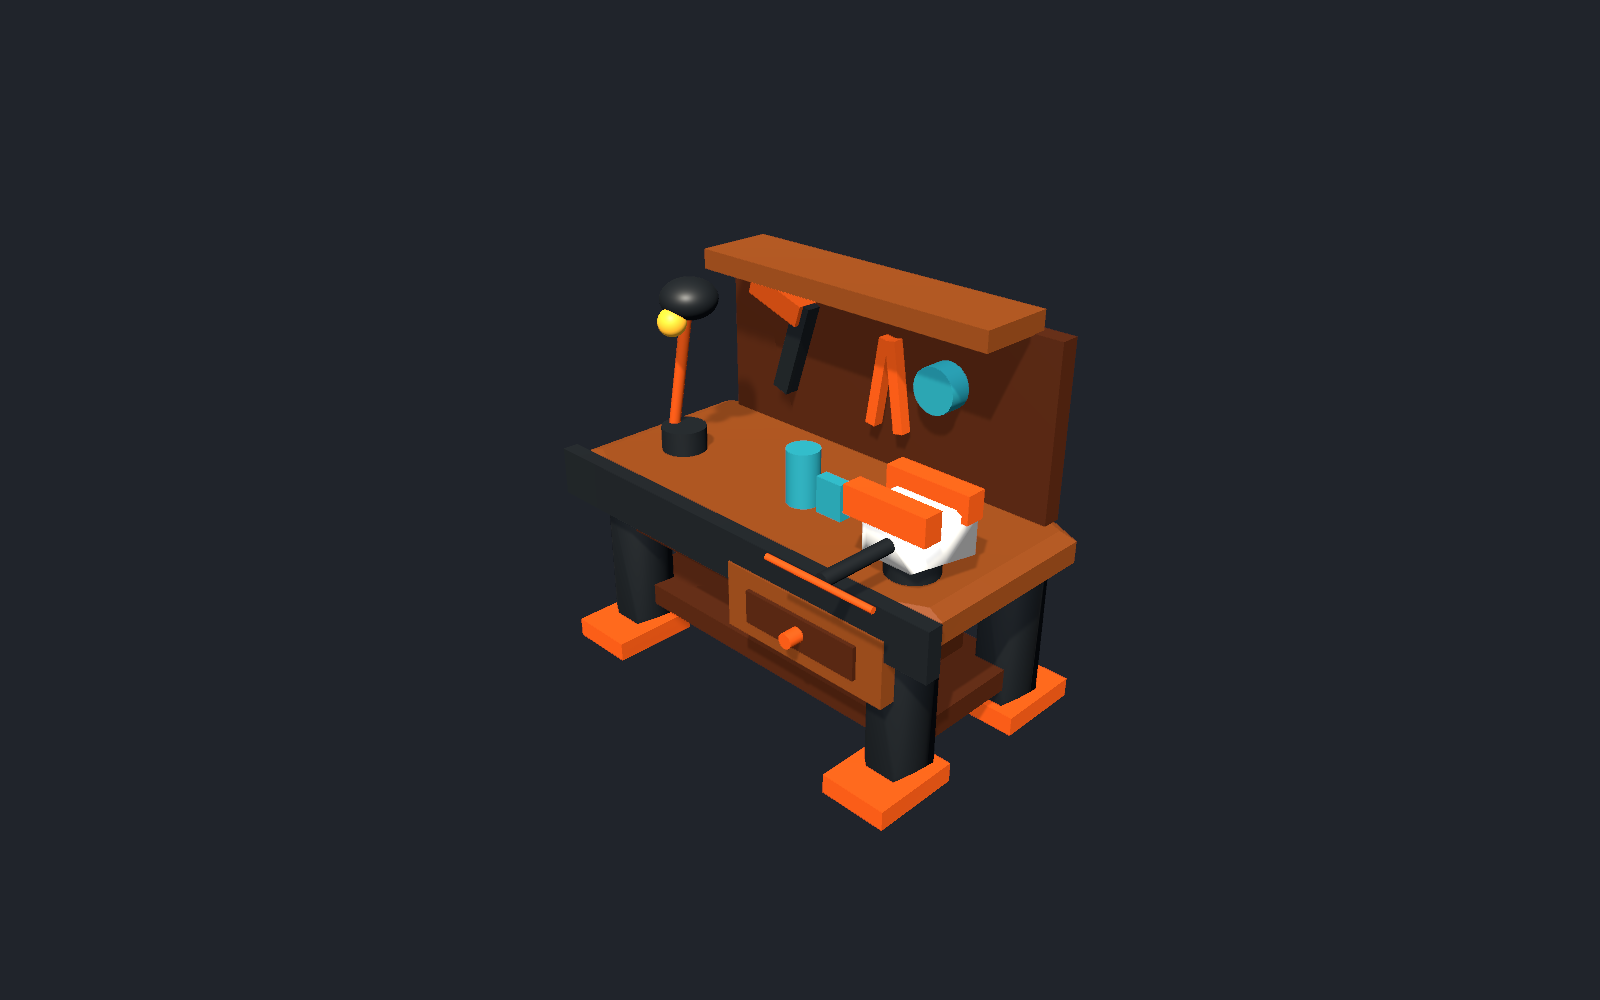
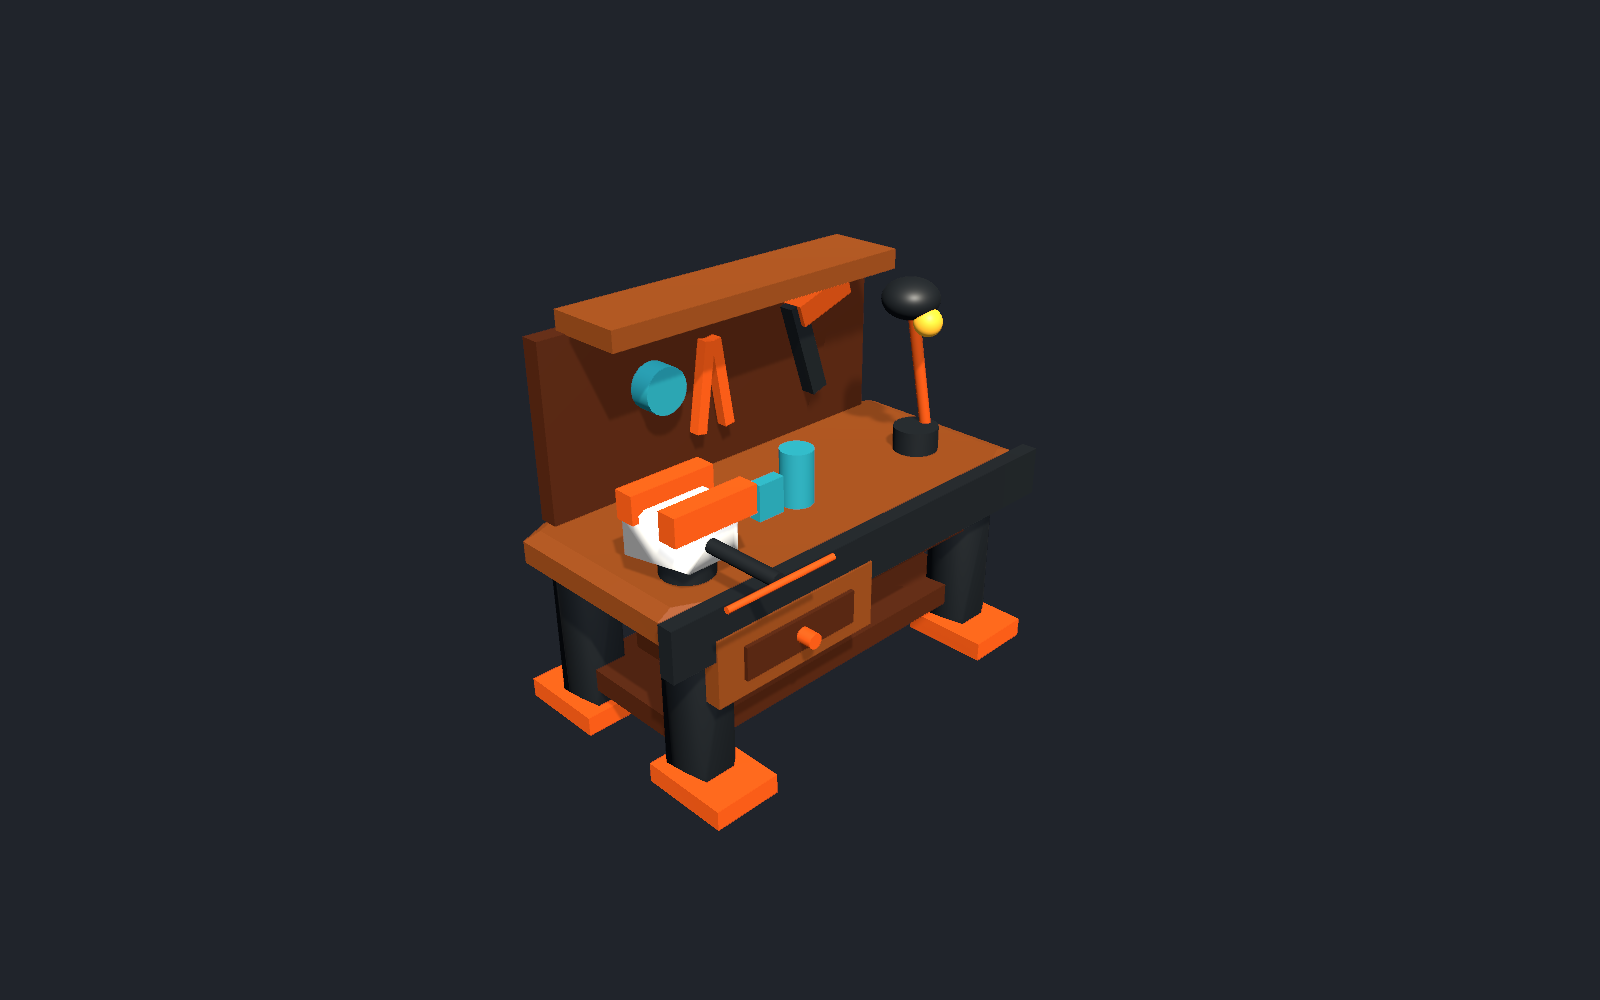
docs: align engine comparison screenshot orientation

Changed region(s): [[0.3125, 0.217, 0.6875, 0.837]]

diff --git a/Samples/three-consumer/README.md b/Samples/three-consumer/README.md
@@ -2,7 +2,7 @@
 
 This Vite application demonstrates the same engine-neutral asset definitions in a Three.js consumer. The Japanese town and inventor workbench are generated from the project's Unity Low Poly preset factories and exported with their matching palettes, so the Unity and Three.js examples start from the same authored data. The town includes six X-axis mirrored instances. The picker also includes a character, weapon, building, profile geometry gallery, and semantic rig fixture.
 
-The screenshots below use a matched 1600 × 1000 frame, 45° field of view, camera direction, and target framing. The Unity images are rendered by the Unity Editor from the same preset factories that produce the JSON and palettes used by the Three.js consumer; each engine uses its own renderer and lighting.
+The screenshots below use a matched 1600 × 1000 frame, 45° field of view, camera direction, and target framing. The Unity images are rendered by the Unity Editor from the same preset factories that produce the JSON and palettes used by the Three.js consumer; each engine uses its own renderer and lighting. Unity images are horizontally corrected after rendering to account for the different camera handedness, without changing the authored model transforms.
 
 | Shared preset | Unity | Three.js |
 |---|---|---|

diff --git a/README.md b/README.md
@@ -53,7 +53,7 @@ npm test
 npm run dev
 ```
 
-The browser sample includes the Unity-authored Japanese Town and Inventor Workbench, along with character, weapon, building, profile geometry, and semantic rig scenes. The town and workbench reuse the exact definitions and palettes from the Unity preset factories, making them a direct cross-engine comparison. Use **Fit view** and **Save PNG** to frame and export a scene.
+The browser sample includes the Unity-authored Japanese Town and Inventor Workbench, along with character, weapon, building, profile geometry, and semantic rig scenes. The town and workbench reuse the exact definitions and palettes from the Unity preset factories, making them a direct cross-engine comparison. Use **Fit view** and **Save PNG** to frame and export a scene. Unity comparison images are horizontally corrected for the engines' different camera handedness; the authored model transforms remain unchanged.
 
 | Shared preset | Unity | Three.js |
 |---|---|---|

diff --git a/README.zh-CN.md b/README.zh-CN.md
@@ -53,7 +53,7 @@ npm test
 npm run dev
 ```
 
-浏览器示例包含 Unity 预设生成的日式小镇和发明家工作台，以及角色、武器、建筑、Profile 几何和语义 Rig 场景。小镇与工作台直接复用 Unity 预设工厂生成的定义和调色板，可用于跨引擎对比。点击 **Fit view** 可适配视角，点击 **Save PNG** 可导出当前画面。
+浏览器示例包含 Unity 预设生成的日式小镇和发明家工作台，以及角色、武器、建筑、Profile 几何和语义 Rig 场景。小镇与工作台直接复用 Unity 预设工厂生成的定义和调色板，可用于跨引擎对比。点击 **Fit view** 可适配视角，点击 **Save PNG** 可导出当前画面。为补偿两个引擎的相机手性差异，Unity 对比图已做水平校正，模型变换数据没有改动。
 
 | 共享预设 | Unity | Three.js |
 |---|---|---|
